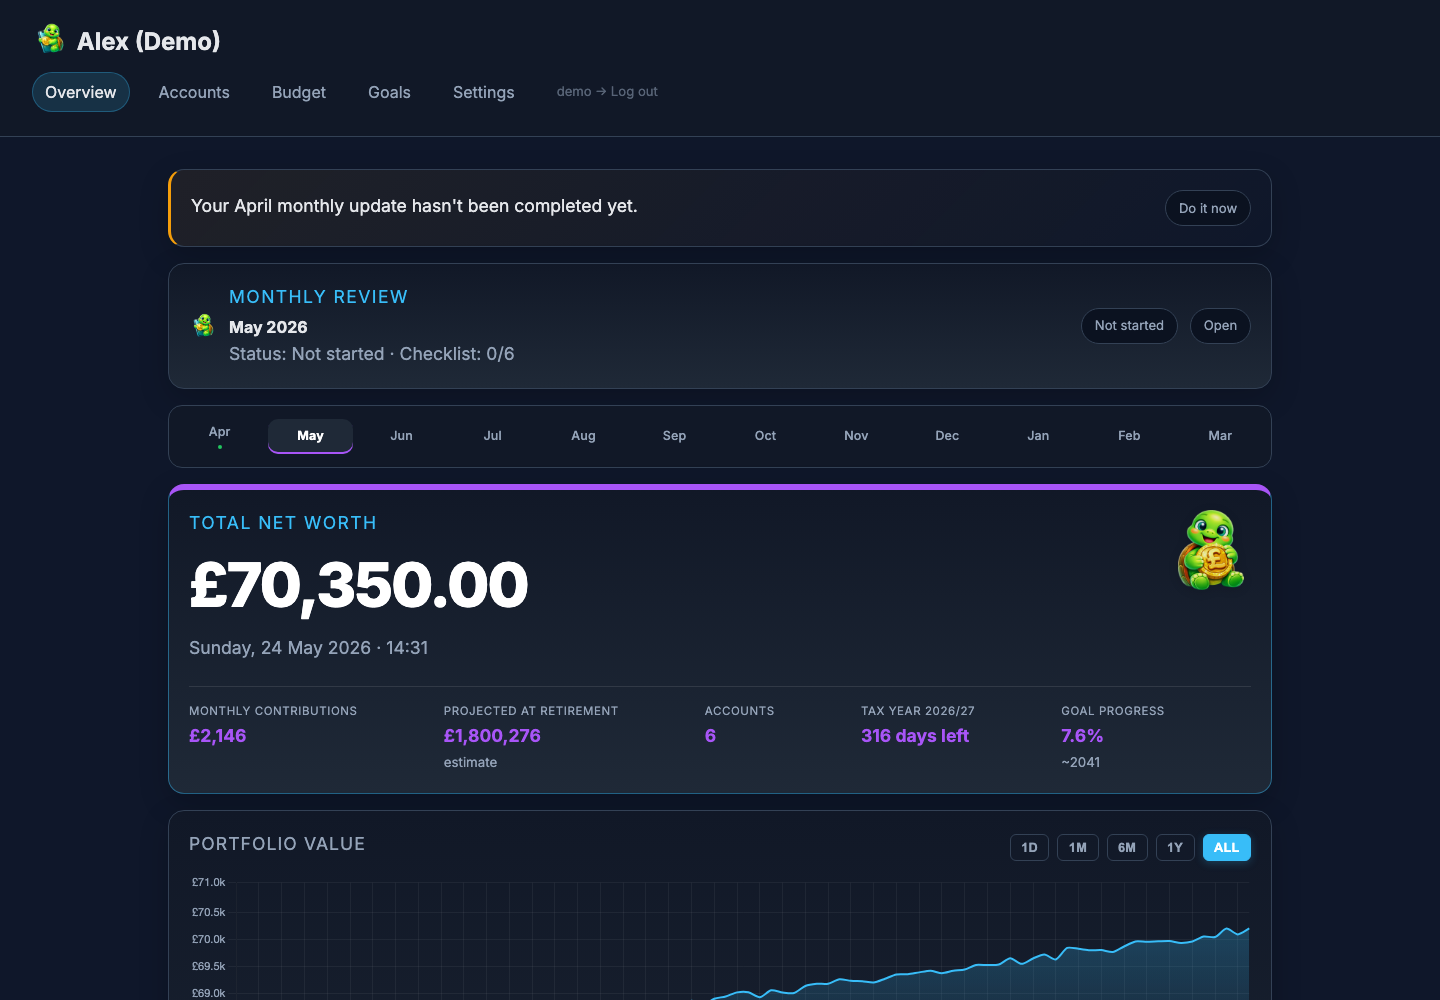
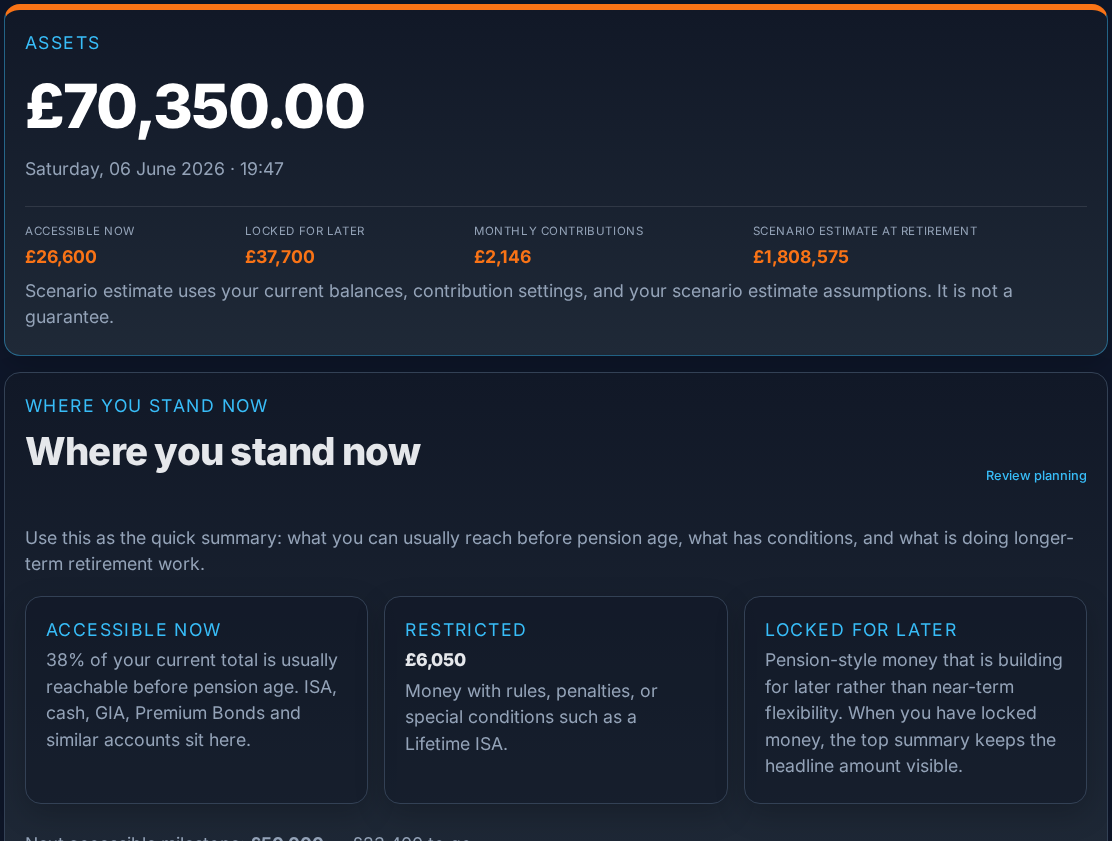
feat(site): refresh demo screenshots

diff --git a/site/index.html b/site/index.html
@@ -57,8 +57,8 @@
               <span>Demo data</span>
             </div>
             <div class="window-body">
-              <a class="screenshot-trigger" href="./assets/screenshots/overview.png" data-lightbox-title="Overview" data-lightbox-caption="Demo data · Full screenshot" aria-label="Open full overview screenshot">
-                <img class="screenshot" src="./assets/screenshots/overview.png" alt="SteadyPlan overview screenshot (demo data)">
+              <a class="screenshot-trigger" href="./assets/screenshots/overview.png?v=20260607b" data-lightbox-title="Overview summary" data-lightbox-caption="Demo data · Expanded preview" aria-label="Open expanded overview summary screenshot">
+                <img class="screenshot" src="./assets/screenshots/overview.png?v=20260607b" alt="SteadyPlan overview summary card (demo data)">
                 <span class="screenshot-hint">Click to expand</span>
               </a>
             </div>
@@ -113,8 +113,8 @@
               <span>Demo data</span>
             </div>
             <div class="window-body">
-              <a class="screenshot-trigger" href="./assets/screenshots/projections.png" data-lightbox-title="Scenario estimates" data-lightbox-caption="Demo data · Full screenshot" aria-label="Open full scenario estimates screenshot">
-                <img class="screenshot" src="./assets/screenshots/projections.png" alt="SteadyPlan projections screenshot (demo data)">
+              <a class="screenshot-trigger" href="./assets/screenshots/projections.png?v=20260607b" data-lightbox-title="Scenario estimates" data-lightbox-caption="Demo data · Expanded preview" aria-label="Open expanded scenario estimates screenshot">
+                <img class="screenshot" src="./assets/screenshots/projections.png?v=20260607b" alt="SteadyPlan scenario estimates summary card (demo data)">
                 <span class="screenshot-hint">Click to expand</span>
               </a>
             </div>
@@ -129,8 +129,8 @@
               <span>Demo data</span>
             </div>
             <div class="window-body">
-              <a class="screenshot-trigger" href="./assets/screenshots/data-privacy.png" data-lightbox-title="Data ownership" data-lightbox-caption="Demo data · Full screenshot" aria-label="Open full data ownership screenshot">
-                <img class="screenshot" src="./assets/screenshots/data-privacy.png" alt="SteadyPlan settings and data ownership screenshot (demo data)">
+              <a class="screenshot-trigger" href="./assets/screenshots/data-privacy.png?v=20260607b" data-lightbox-title="Data ownership" data-lightbox-caption="Demo data · Expanded preview" aria-label="Open expanded data ownership screenshot">
+                <img class="screenshot" src="./assets/screenshots/data-privacy.png?v=20260607b" alt="SteadyPlan data ownership panel (demo data)">
                 <span class="screenshot-hint">Click to expand</span>
               </a>
             </div>

diff --git a/site/tour.html b/site/tour.html
@@ -56,8 +56,8 @@
               <span>Demo data</span>
             </div>
             <div class="window-body">
-              <a class="screenshot-trigger" href="./assets/screenshots/overview.png" data-lightbox-title="Overview" data-lightbox-caption="Demo data · Full screenshot" aria-label="Open full overview screenshot">
-                <img class="screenshot" src="./assets/screenshots/overview.png" alt="SteadyPlan overview screenshot (demo data)">
+              <a class="screenshot-trigger" href="./assets/screenshots/overview.png?v=20260607b" data-lightbox-title="Overview summary" data-lightbox-caption="Demo data · Expanded preview" aria-label="Open expanded overview summary screenshot">
+                <img class="screenshot" src="./assets/screenshots/overview.png?v=20260607b" alt="SteadyPlan overview summary card (demo data)">
                 <span class="screenshot-hint">Click to expand</span>
               </a>
             </div>
@@ -112,8 +112,8 @@
               <span>Demo data</span>
             </div>
             <div class="window-body">
-              <a class="screenshot-trigger" href="./assets/screenshots/projections.png" data-lightbox-title="Scenario estimates" data-lightbox-caption="Demo data · Full screenshot" aria-label="Open full scenario estimates screenshot">
-                <img class="screenshot" src="./assets/screenshots/projections.png" alt="SteadyPlan projections screenshot (demo data)">
+              <a class="screenshot-trigger" href="./assets/screenshots/projections.png?v=20260607b" data-lightbox-title="Scenario estimates" data-lightbox-caption="Demo data · Expanded preview" aria-label="Open expanded scenario estimates screenshot">
+                <img class="screenshot" src="./assets/screenshots/projections.png?v=20260607b" alt="SteadyPlan scenario estimates summary card (demo data)">
                 <span class="screenshot-hint">Click to expand</span>
               </a>
             </div>
@@ -128,8 +128,8 @@
               <span>Demo data</span>
             </div>
             <div class="window-body">
-              <a class="screenshot-trigger" href="./assets/screenshots/data-privacy.png" data-lightbox-title="Data ownership" data-lightbox-caption="Demo data · Full screenshot" aria-label="Open full data ownership screenshot">
-                <img class="screenshot" src="./assets/screenshots/data-privacy.png" alt="SteadyPlan settings and data ownership screenshot (demo data)">
+              <a class="screenshot-trigger" href="./assets/screenshots/data-privacy.png?v=20260607b" data-lightbox-title="Data ownership" data-lightbox-caption="Demo data · Expanded preview" aria-label="Open expanded data ownership screenshot">
+                <img class="screenshot" src="./assets/screenshots/data-privacy.png?v=20260607b" alt="SteadyPlan data ownership panel (demo data)">
                 <span class="screenshot-hint">Click to expand</span>
               </a>
             </div>